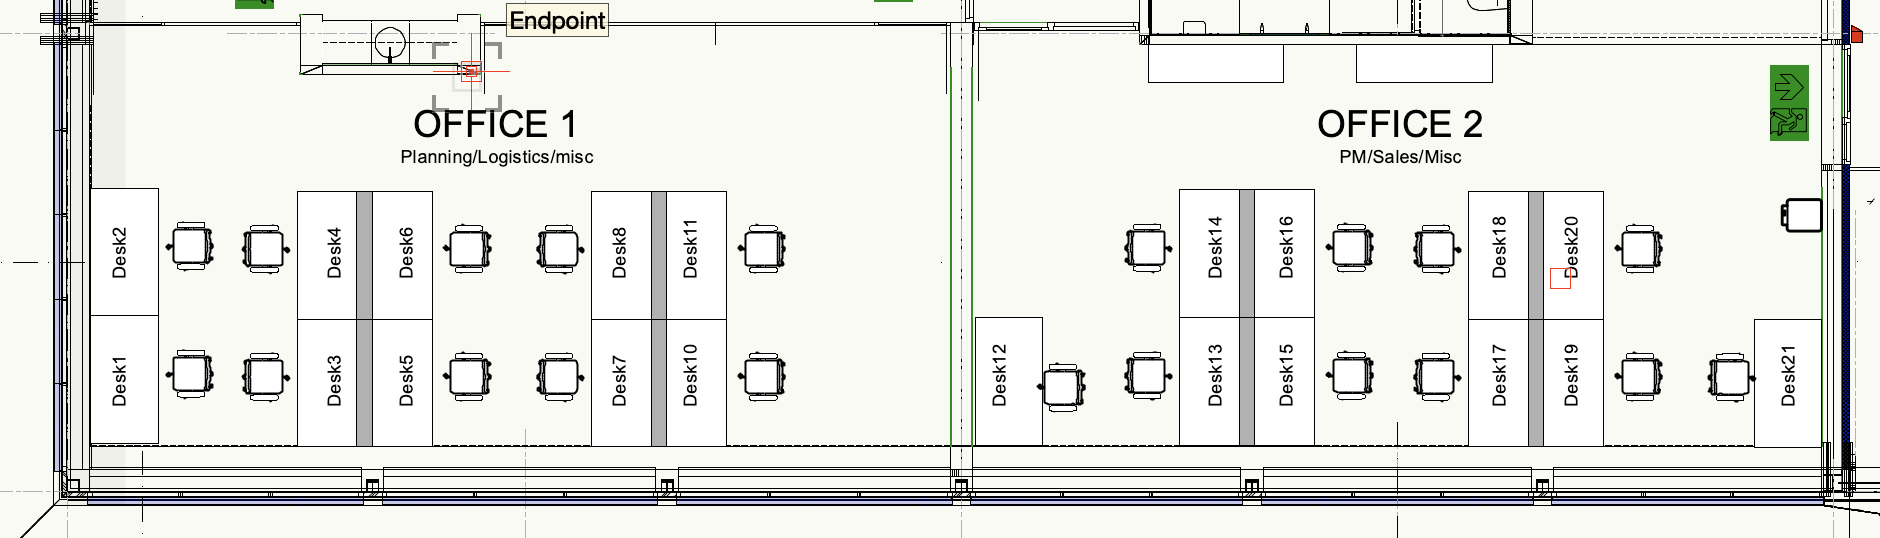
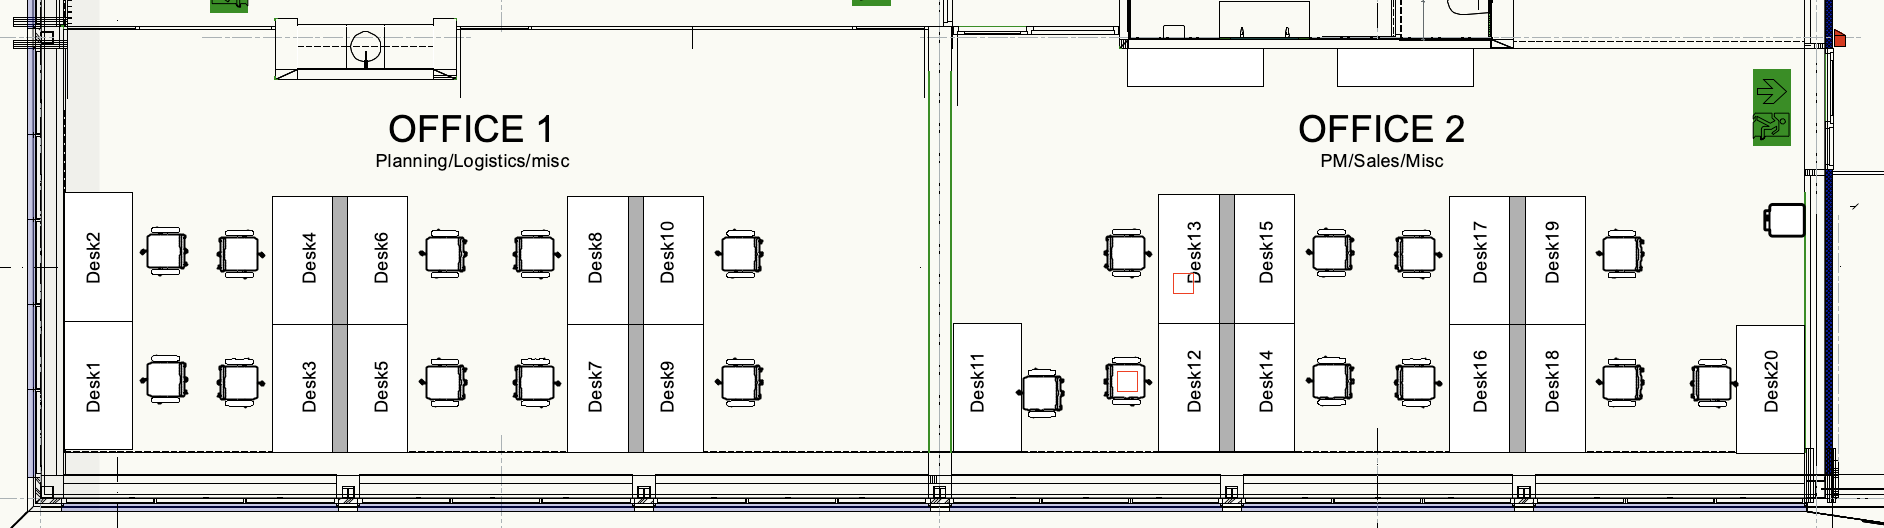
Correct two-office desk numbering

Changed region(s): [[0.0, 0.0, 1.0, 1.0], [0.6787, 0.1515, 0.8021, 0.3333], [0.617, 0.1515, 0.6787, 0.1818]]

diff --git a/app.js b/app.js
@@ -2,44 +2,42 @@ const OFFICES = {
   "office-1": {
     name: "Office 1",
     team: "Planning / Logistics / misc",
-    desks: [1, 2, 3, 4, 5, 6, 7, 8, 10, 11],
+    desks: [1, 2, 3, 4, 5, 6, 7, 8, 9, 10],
   },
   "office-2": {
     name: "Office 2",
     team: "PM / Sales / Misc",
-    desks: [12, 13, 14, 15, 16, 17, 18, 19, 20, 21],
+    desks: [11, 12, 13, 14, 15, 16, 17, 18, 19, 20],
   },
 };
 
 const DESKS = {
-  "Desk 1": { office: "office-1", left: 6.3, top: 70.8 },
-  "Desk 2": { office: "office-1", left: 6.3, top: 47.6 },
-  "Desk 3": { office: "office-1", left: 17.8, top: 70.8 },
-  "Desk 4": { office: "office-1", left: 17.8, top: 47.6 },
-  "Desk 5": { office: "office-1", left: 21.6, top: 70.8 },
-  "Desk 6": { office: "office-1", left: 21.6, top: 47.6 },
-  "Desk 7": { office: "office-1", left: 33.0, top: 70.8 },
-  "Desk 8": { office: "office-1", left: 33.0, top: 47.6 },
-  "Desk 10": { office: "office-1", left: 36.8, top: 70.8 },
-  "Desk 11": { office: "office-1", left: 36.8, top: 47.6 },
-  "Desk 12": { office: "office-2", left: 53.2, top: 70.8 },
-  "Desk 13": { office: "office-2", left: 64.6, top: 70.8 },
-  "Desk 14": { office: "office-2", left: 64.6, top: 47.6 },
-  "Desk 15": { office: "office-2", left: 68.4, top: 70.8 },
-  "Desk 16": { office: "office-2", left: 68.4, top: 47.6 },
-  "Desk 17": { office: "office-2", left: 79.7, top: 70.8 },
-  "Desk 18": { office: "office-2", left: 79.7, top: 47.6 },
-  "Desk 19": { office: "office-2", left: 83.6, top: 70.8 },
-  "Desk 20": { office: "office-2", left: 83.6, top: 47.6 },
-  "Desk 21": { office: "office-2", left: 95.2, top: 70.8 },
+  "Desk 1": { office: "office-1", left: 5.2, top: 71.8 },
+  "Desk 2": { office: "office-1", left: 5.2, top: 48.8 },
+  "Desk 3": { office: "office-1", left: 16.4, top: 71.8 },
+  "Desk 4": { office: "office-1", left: 16.4, top: 48.8 },
+  "Desk 5": { office: "office-1", left: 20.2, top: 71.8 },
+  "Desk 6": { office: "office-1", left: 20.2, top: 48.8 },
+  "Desk 7": { office: "office-1", left: 31.6, top: 71.8 },
+  "Desk 8": { office: "office-1", left: 31.6, top: 48.8 },
+  "Desk 9": { office: "office-1", left: 35.4, top: 71.8 },
+  "Desk 10": { office: "office-1", left: 35.4, top: 48.8 },
+  "Desk 11": { office: "office-2", left: 51.7, top: 71.8 },
+  "Desk 12": { office: "office-2", left: 63.3, top: 71.8 },
+  "Desk 13": { office: "office-2", left: 63.3, top: 48.8 },
+  "Desk 14": { office: "office-2", left: 67.1, top: 71.8 },
+  "Desk 15": { office: "office-2", left: 67.1, top: 48.8 },
+  "Desk 16": { office: "office-2", left: 78.5, top: 71.8 },
+  "Desk 17": { office: "office-2", left: 78.5, top: 48.8 },
+  "Desk 18": { office: "office-2", left: 82.3, top: 71.8 },
+  "Desk 19": { office: "office-2", left: 82.3, top: 48.8 },
+  "Desk 20": { office: "office-2", left: 94.4, top: 71.8 },
 };
 
 const ASSIGNED_DESKS = {
   "Desk 1": "Madrika",
   "Desk 4": "Arjan",
   "Desk 8": "Erick",
-  "Desk 10": "Rowan",
-  "Desk 11": "Anniek",
 };
 
 const state = {

diff --git a/server.js b/server.js
@@ -16,6 +16,7 @@ const VALID_DESKS = new Set([
   "Desk 6",
   "Desk 7",
   "Desk 8",
+  "Desk 9",
   "Desk 10",
   "Desk 11",
   "Desk 12",
@@ -27,14 +28,11 @@ const VALID_DESKS = new Set([
   "Desk 18",
   "Desk 19",
   "Desk 20",
-  "Desk 21",
 ]);
 const ASSIGNED_DESKS = {
   "Desk 1": "Madrika",
   "Desk 4": "Arjan",
   "Desk 8": "Erick",
-  "Desk 10": "Rowan",
-  "Desk 11": "Anniek",
 };
 
 let activeDataDir = CONFIGURED_DATA_DIR;

diff --git a/styles.css b/styles.css
@@ -274,7 +274,7 @@ h3 {
 .office-plan {
   position: relative;
   min-width: 1080px;
-  aspect-ratio: 1880 / 538;
+  aspect-ratio: 1884 / 528;
   overflow: hidden;
   border: 2px solid #cfd9d3;
   border-radius: 8px;
